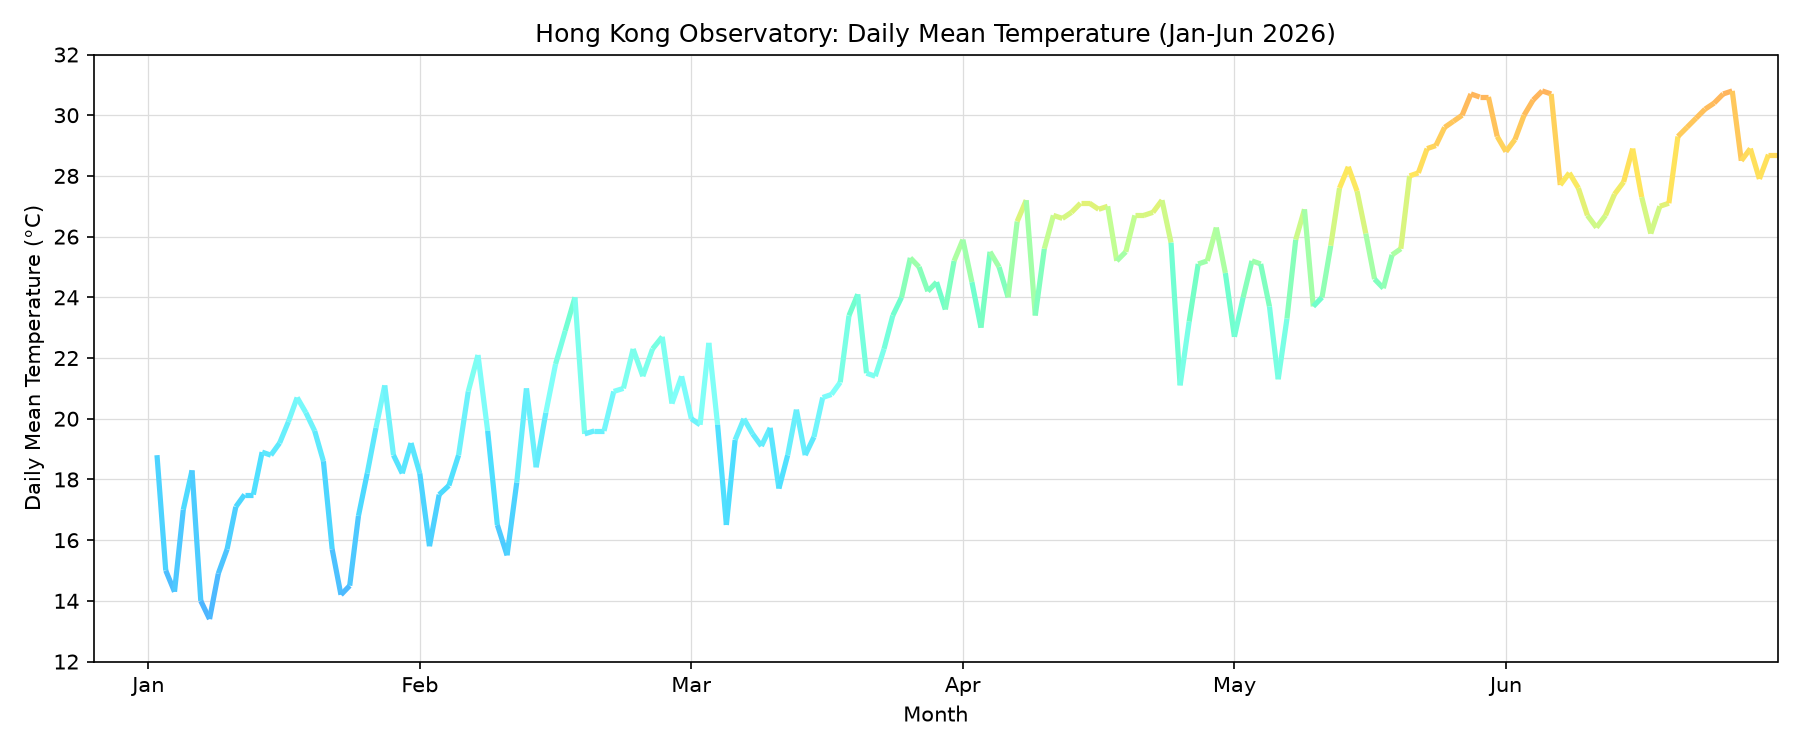
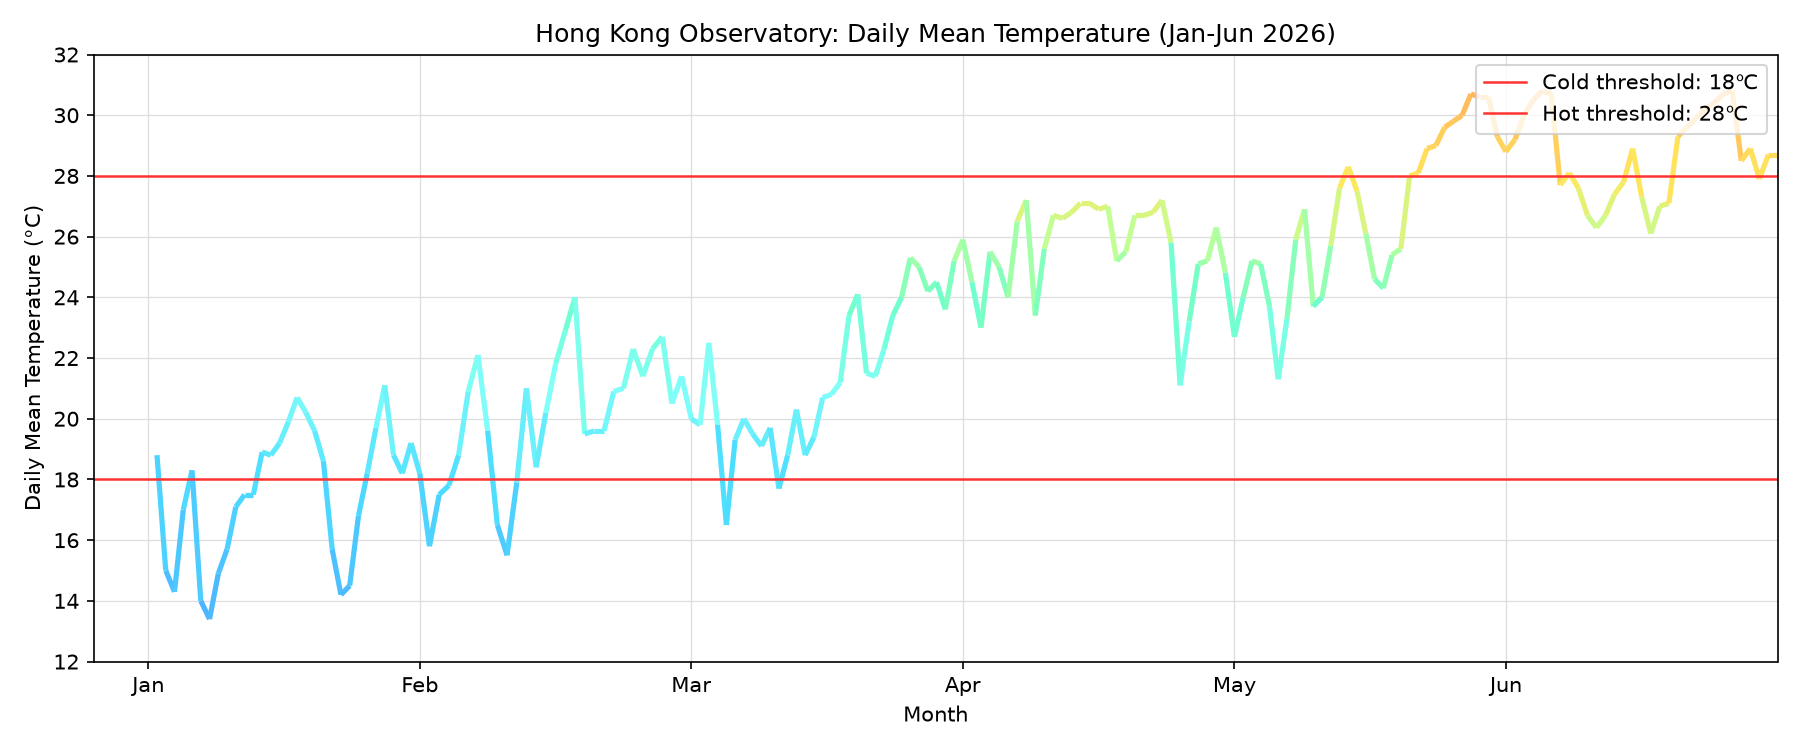
Add red horizontal lines at 18℃ and 28℃ to show cold/hot temperature threshold

Changed region(s): [[0.0622, 0.6133, 0.9644, 0.644], [0.0622, 0.2147, 0.9644, 0.2453], [0.8089, 0.092, 0.9956, 0.184]]

diff --git a/plot.py b/plot.py
@@ -6,6 +6,7 @@
 Assignment2: Hong Kong Jan‑Jun 2026 daily mean temperature
 Gradient‑colored line based on temperature value.
 Only keep data Jan‑Jun, discard Jul‑Dec.
+Add red horizontal reference lines at 18℃ and 28℃ to mark cold/hot thresholds.
 uv run plot.py
 """
 import csv
@@ -13,7 +14,6 @@ from pathlib import Path
 import matplotlib.pyplot as plt
 from matplotlib.collections import LineCollection
 import matplotlib.colors as mcolors
-
 # ------------------- 路径定义（已修正，和fetch.py对齐） -------------------
 FILE = "hko-daily-mean-temperature-2026.csv"
 PICTURE = "hk-temp-jan-jun-2026.png"
@@ -21,7 +21,6 @@ HERE = Path(__file__).parent
 DATA = HERE / "data" / FILE
 OUT = HERE / "out"
 # ------------------------------------------------------------------------
-
 # Temperature‑color anchor points (temp ℃ , hex color)
 TEMP_COLOR_KEYPOINTS = [
     (13.4, "#4DB2FF"),
@@ -106,6 +105,11 @@ def main():
     ax.set_xlabel("Month")
     ax.set_ylabel("Daily Mean Temperature (°C)")
     ax.grid(color="#dddddd", linestyle="-", linewidth=0.6)
+    # ========== 新增：18℃ 和 28℃ 红色水平参考线 ==========
+    ax.axhline(y=18, color="#ff3333", linestyle="-", linewidth=1.2, label="Cold threshold: 18℃")
+    ax.axhline(y=28, color="#ff3333", linestyle="-", linewidth=1.2, label="Hot threshold: 28℃")
+    ax.legend(loc="upper right")
+    # =====================================================
     ax.set_axisbelow(True)
     fig.tight_layout()
     OUT.mkdir(exist_ok=True)
